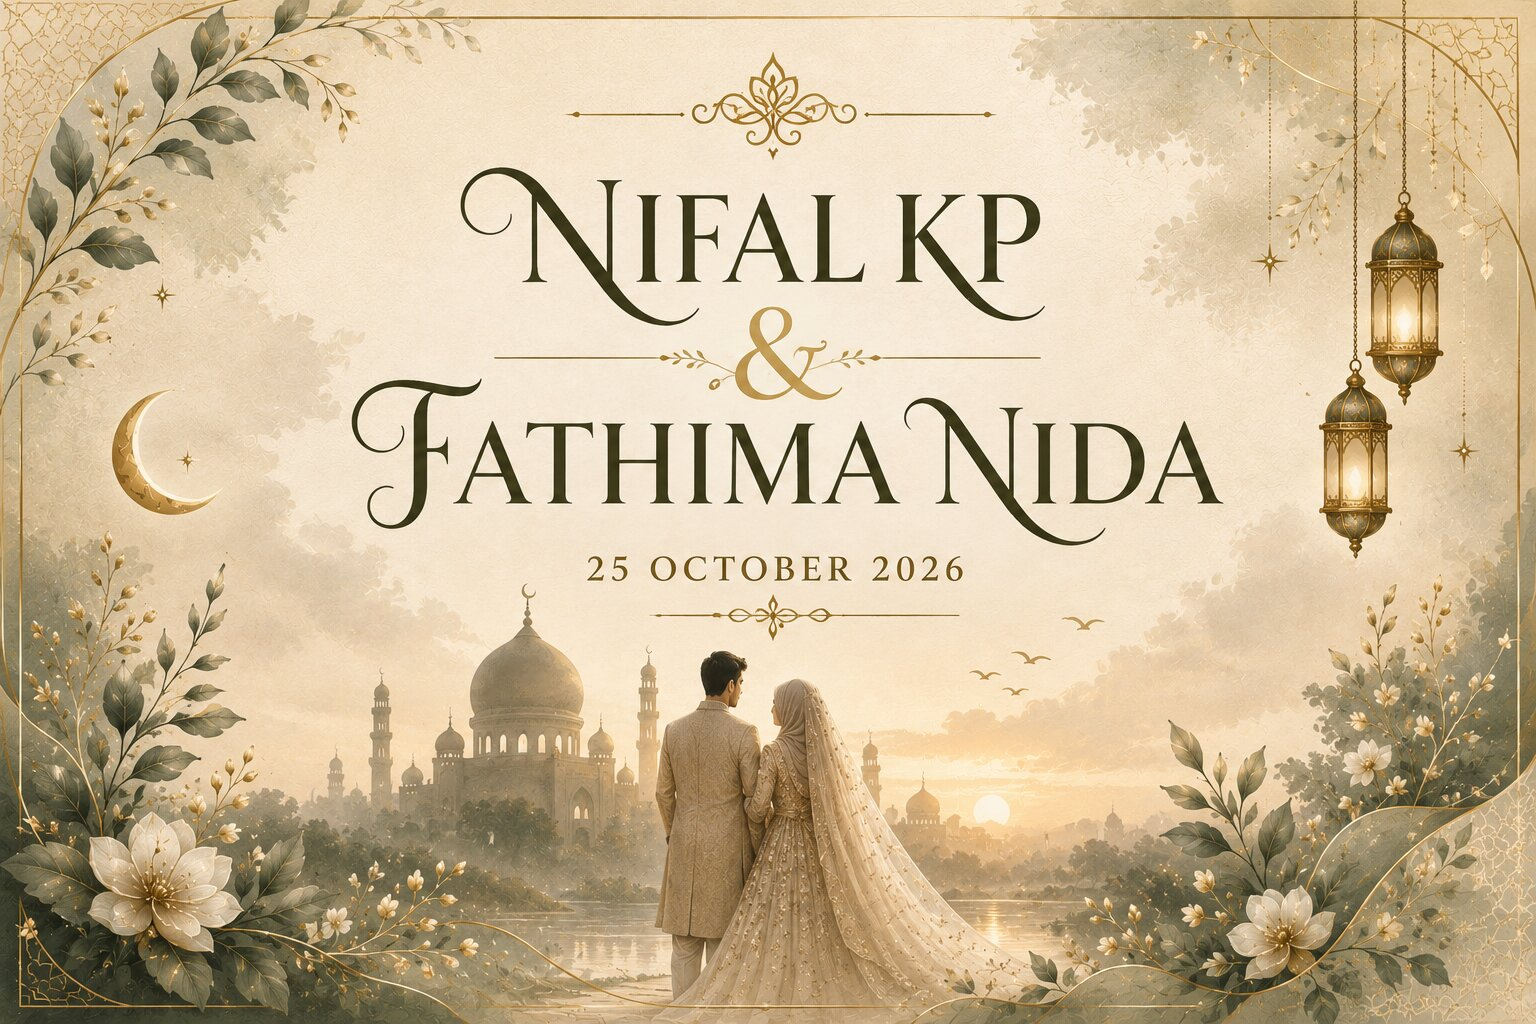
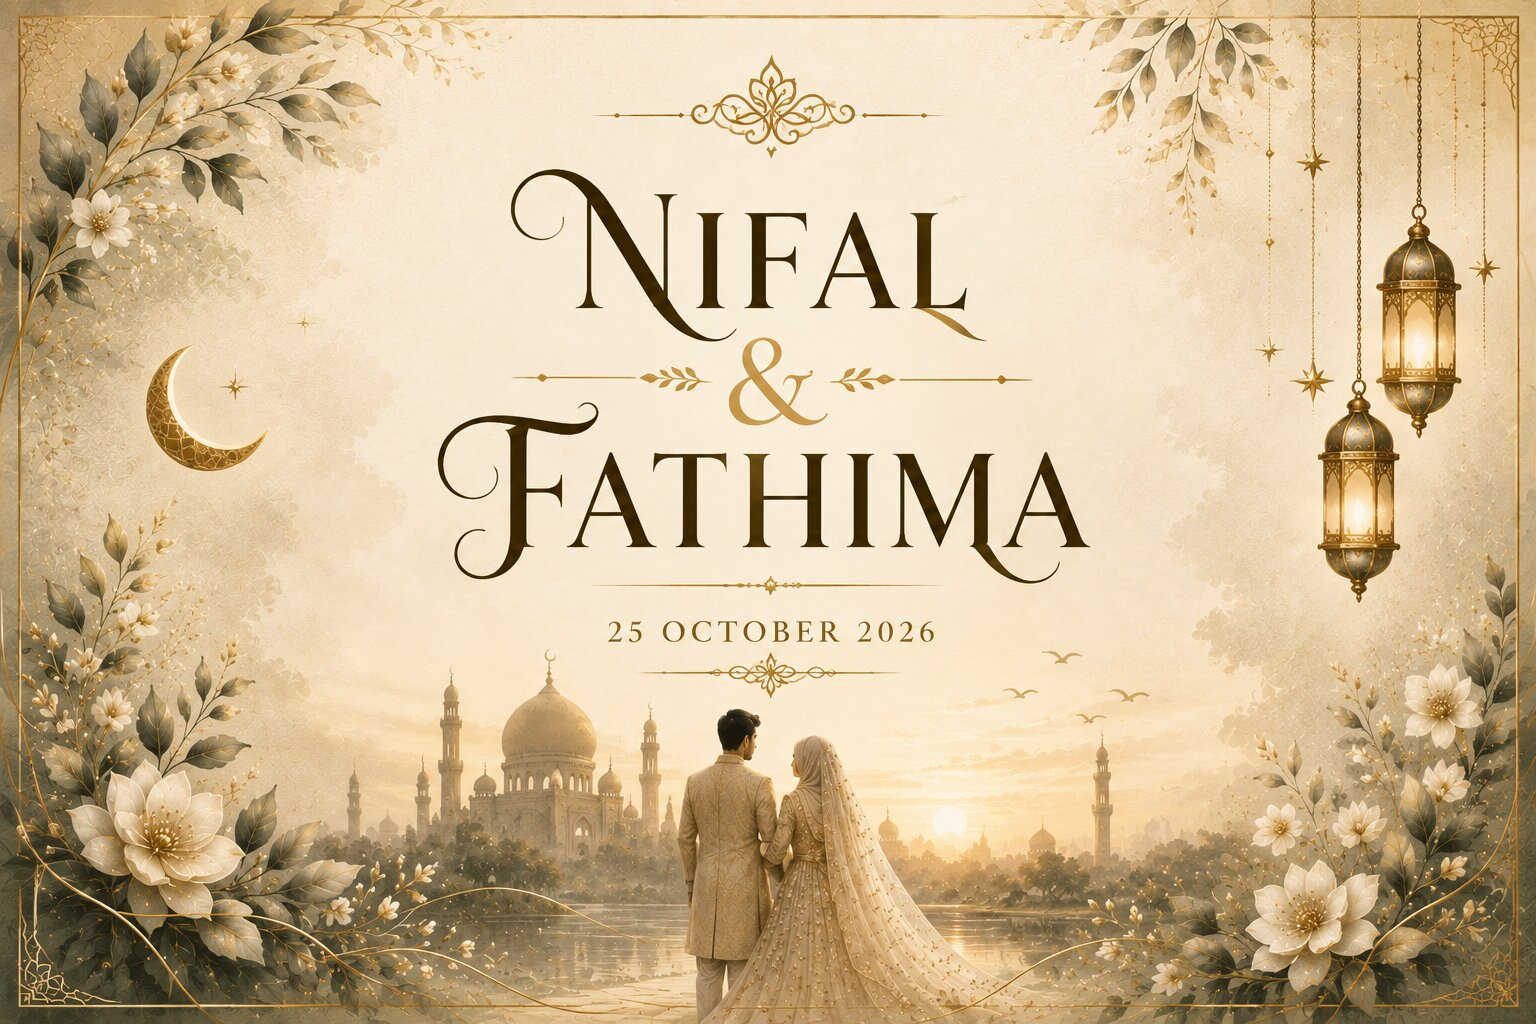
first commit

diff --git a/index.html b/index.html
@@ -3,14 +3,14 @@
 <head>
 <meta charset="UTF-8">
 <meta name="viewport" content="width=device-width, initial-scale=1.0, viewport-fit=cover">
-<title>NIFAL KP &amp; FATHIMA NIDA — Wedding Invitation</title>
-<meta name="description" content="Request the honour of your gracious presence and blessings at the wedding of NIFAL KP &amp; FATHIMA NIDA.">
+<title>NIFAL &amp; FATHIMA — Wedding Invitation</title>
+<meta name="description" content="Request the honour of your gracious presence and blessings at the wedding of NIFAL &amp; FATHIMA.">
 
 <!-- Open Graph / WhatsApp preview -->
 <meta property="og:type"        content="website">
 <meta property="og:url"         content="https://nifal-fathimanida.onrender.com/">
-<meta property="og:title"       content="NIFAL KP &amp; FATHIMA NIDA — Wedding Invitation">
-<meta property="og:description" content="Request the honour of your gracious presence and blessings at the wedding of NIFAL KP &amp; FATHIMA NIDA — 25 October 2026.">
+<meta property="og:title"       content="NIFAL &amp; FATHIMA — Wedding Invitation">
+<meta property="og:description" content="Request the honour of your gracious presence and blessings at the wedding of NIFAL &amp; FATHIMA — 25 October 2026.">
 <meta property="og:image"       content="https://nifal-fathimanida.onrender.com/assets/og-image.jpg">
 <meta property="og:image:width"  content="1200">
 <meta property="og:image:height" content="630">
@@ -18,8 +18,8 @@
 <meta property="og:locale"      content="en_IN">
 
 <meta name="twitter:card"        content="summary_large_image">
-<meta name="twitter:title"       content="NIFAL KP &amp; FATHIMA NIDA — Wedding Invitation">
-<meta name="twitter:description" content="Request the honour of your gracious presence and blessings at the wedding of NIFAL KP &amp; FATHIMA NIDA — 25 October 2026.">
+<meta name="twitter:title"       content="NIFAL &amp; FATHIMA — Wedding Invitation">
+<meta name="twitter:description" content="Request the honour of your gracious presence and blessings at the wedding of NIFAL &amp; FATHIMA — 25 October 2026.">
 <meta name="twitter:image"       content="https://nifal-fathimanida.onrender.com/assets/og-image.jpg">
 
 <link rel="preconnect" href="https://fonts.googleapis.com">
@@ -88,7 +88,7 @@
       <circle cx="60" cy="20" r="2.5" fill="var(--gold)"/>
     </svg>
     <p class="gate__eyebrow">The Wedding Of</p>
-    <h1 class="gate__names">Nifal KP <span class="amp">&amp;</span> Fathima Nida</h1>
+    <h1 class="gate__names">Nifal <span class="amp">&amp;</span> Fathima</h1>
     <p class="gate__date">25<span class="dot">·</span>10<span class="dot">·</span>2026</p>
     <button id="gateButton" class="gate__button" type="button">
       <span class="gate__button-ring"></span>
@@ -115,9 +115,9 @@
       <p class="hero__eyebrow">Kindly join us for the wedding of</p>
 
       <h1 class="hero__names">
-        <span class="hero__name-line">Nifal KP</span>
+        <span class="hero__name-line">Nifal</span>
         <span class="hero__amp-line">&amp;</span>
-        <span class="hero__name-line">Fathima Nida</span>
+        <span class="hero__name-line">Fathima</span>
       </h1>
 
       <p class="hero__meta">October 25, 2026</p>
@@ -170,7 +170,7 @@
           </svg>
         </div>
         <p class="couple-card__role">Groom</p>
-        <h3 class="couple-card__name">Nifal KP</h3>
+        <h3 class="couple-card__name">Nifal</h3>
         <div class="divider divider--small"><span></span><i></i><span></span></div>
         <p class="couple-card__relation">Son of</p>
         <p class="couple-card__parents">Usman Koya K P &amp; Sameera A</p>
@@ -197,7 +197,7 @@
           </svg>
         </div>
         <p class="couple-card__role">Bride</p>
-        <h3 class="couple-card__name">Fathima Nida</h3>
+        <h3 class="couple-card__name">Fathima</h3>
         <div class="divider divider--small"><span></span><i></i><span></span></div>
         <p class="couple-card__relation">Daughter of</p>
         <p class="couple-card__parents">Abdul Sathar K T &amp; Raseena P</p>
@@ -252,7 +252,7 @@
 
       <h2 class="story__title">Two Families, One Blessing</h2>
       <p class="story__text">
-        With hearts full of gratitude, the families of NIFAL KP and FATHIMA NIDA joyfully come
+        With hearts full of gratitude, the families of NIFAL and FATHIMA joyfully come
         together to begin this new chapter, In Sha' Allah. Surrounded by the love and blessings of
         both families, they warmly invite you to be part of their wedding and the celebrations that follow.
       </p>
@@ -383,7 +383,7 @@
       <svg class="glyph glyph--star" viewBox="0 0 40 40" aria-hidden="true">
         <path d="M20 2 L23 17 L38 20 L23 23 L20 38 L17 23 L2 20 L17 17 Z" fill="var(--gold)"/>
       </svg>
-      <h2 class="footer__names">Nifal KP <span class="amp">&amp;</span> Fathima Nida</h2>
+      <h2 class="footer__names">Nifal <span class="amp">&amp;</span> Fathima</h2>
       <p class="footer__date">25 · 10 · 2026</p>
       <p class="footer__dua">"Our Lord, grant us from among our spouses comfort to our eyes, and make us a
         model for the righteous." <span class="footer__dua-ref">— Al-Furqan 25:74</span></p>

diff --git a/js/script.js b/js/script.js
@@ -1,5 +1,5 @@
 /* ============================================================
-   NIFAL KP & FATHIMA NIDA — WEDDING INVITATION
+   NIFAL & FATHIMA — WEDDING INVITATION
    Vanilla JS — gate intro, countdown, scroll reveals
    ============================================================ */
 (function () {
